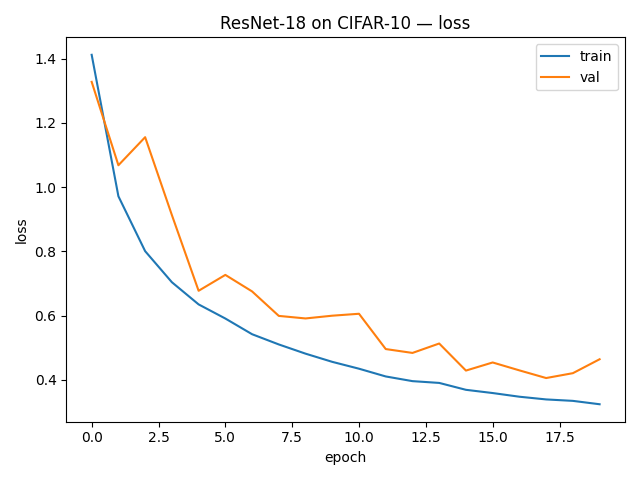
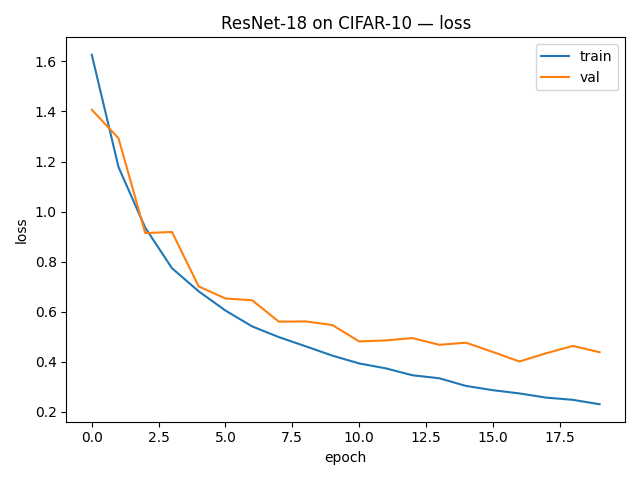
SGD experiments

diff --git a/vision/resnet/README.md b/vision/resnet/README.md
@@ -114,6 +114,23 @@ Final run:
 
 This gives a strong “experiment + interpretation” section you can talk about in interviews.
 
+### SGD learning-rate sweep (CIFAR-10, 20 epochs, weight_decay = 5e-4)
+
+| Learning Rate | Train Acc | Val Acc | Best Val Acc |
+|---------------|-----------|---------|--------------|
+| **0.10**      | 0.867     | 0.822   | 0.824        |
+| **0.05**      | 0.903     | 0.858   | 0.858        |
+| **0.01**      | 0.920     | 0.854   | **0.862**    |
+
+### Observations
+
+- **LR = 0.01 achieved the best validation accuracy (0.862)**, outperforming higher learning rates and even Adam in this setup.
+- At **LR = 0.10**, training is fast but unstable → lower val accuracy.
+- At **LR = 0.05**, the model generalizes well but plateaus early.
+- At **LR = 0.01**, SGD converges more smoothly and reaches a better optimum within 20 epochs.
+- This highlights a core deep-learning principle:  
+  **“SGD requires proper learning-rate tuning — LR matters more than the optimizer choice.”**
+
 
 ## Training Curves
 
